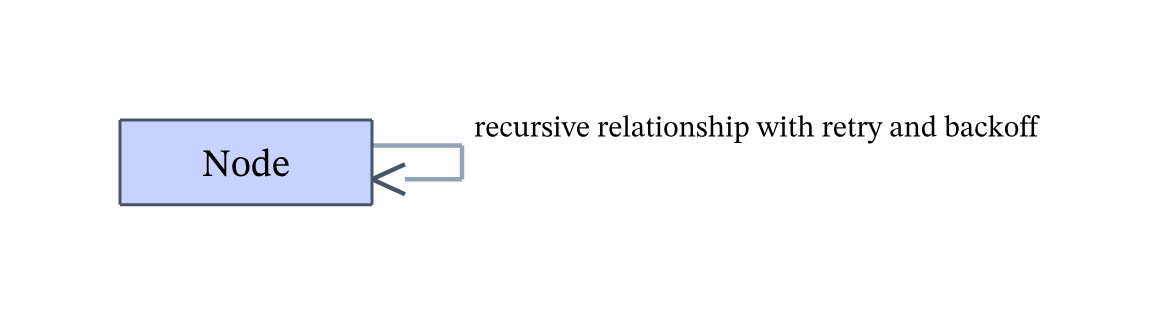
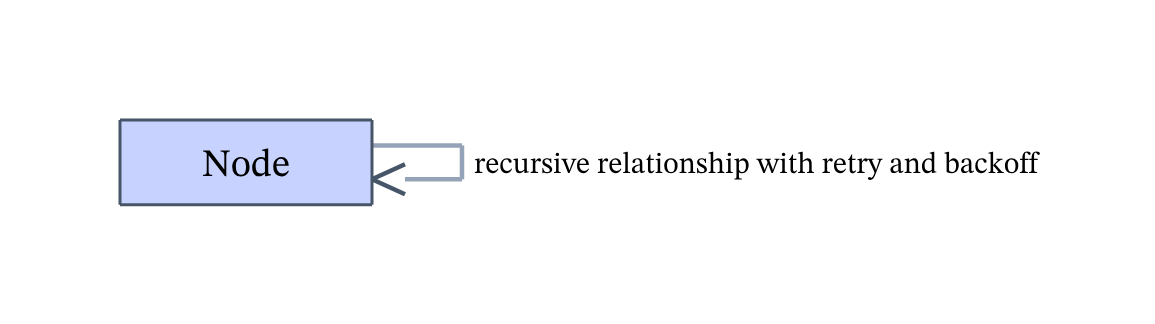
layout: self-loop labels ride their own lanes (plan 64cf1bae)
Charles-flagged from the live gallery: every self-loop label stacked into
one detached column at the outermost lane's top-right, so label<->loop
association was ambiguous (three lanes, one column), the ER two-label case
overlapped a right-neighbour edge's own midpoint label, and the marker-stack
case crowded the marker column.

Each label now RIDES ITS OWN LANE: x-staggered one lane-pitch past the
outermost vertical leg (distinct x-band per lane, never a shared column) and
spread symmetrically about the box/table CENTRE (a lone loop's label lands at
mid-height, clear of a neighbour's centre-band label; stacked loops fan one
line-slot apart). Every label sits past all legs, so it never crosses a lane
line or a border marker; the baseline is attach-independent so a short box
can't collapse two labels. The row cursor reserves the staircase width.

Applied identically to the duplicated ClassDiagramLayout / ErDiagramLayout
self-loop machinery. Five properties pinned in SelfLoopGeometryTest:
per-lane x-band association, pairwise label disjointness (the ER manages/uses
overlap, RED-first), label-vs-marker-footprint disjointness, label-vs-lane-
line/box disjointness with canvas growth; the sir217-era pins (lane
reservation, no collinear legs, marker pitch, neighbour avoidance) stay green.
Gallery regenerated for the five self-loop cases.

Changed region(s): [[0.4052, 0.463, 0.9039, 0.5556], [0.4052, 0.3395, 0.9039, 0.4321]]

diff --git a/src/test/java/com/sirentide/layout/SelfLoopGeometryTest.java b/src/test/java/com/sirentide/layout/SelfLoopGeometryTest.java
@@ -231,6 +231,152 @@ class SelfLoopGeometryTest {
         assertAllGeometryInside(laid);
     }
 
+    // -- 3c) each self-loop label RIDES ITS OWN LANE (Charles-flagged gallery review, plan 64cf1bae) --
+    // The five defect properties, each a receipt. On the OLD placement every loop label stacked into
+    // ONE detached column at the outermost leg's top-right: the ER two-label case OVERLAPPED, the
+    // marker-stack case collided with the marker column, and 3-nested-lane association was ambiguous.
+
+    /// PROPERTY 1 — per-lane x-band association: labels no longer share a column. Each loop label is
+    /// x-staggered one lane-pitch past the OUTERMOST vertical leg, so the labels' x-bands are STRICTLY
+    /// increasing by lane and every one starts past every leg. On the old code all three shared one
+    /// minX (the single outermost-lane column) → this fails RED there.
+    @Test
+    void eachSelfLoopLabelRidesItsOwnLaneXBandNotAColumn() {
+        LaidOut laid = ClassDiagramLayout.layout((ClassDiagram) DslParser.parse(
+            "classDiagram\n  class A\n  A --> A : first\n  A --> A : second\n  A --> A : third\n"));
+        List<Group> loops = edgeGroups(laid);   // group i == lane i (relations emit in order)
+        assertEquals(3, loops.size(), "three self-relations → three edge groups");
+        double outermostLeg = loops.stream()
+            .mapToDouble(g -> verticalLegX(g, EDGE)).max().orElseThrow();
+        double prevMinX = Double.NEGATIVE_INFINITY;
+        for (int k = 0; k < loops.size(); k++) {
+            double[] b = labelBbox(loops.get(k));   // positive control: throws if no glyphs
+            assertTrue(b[0] > outermostLeg + 1e-6,
+                "lane " + k + " label starts past the outermost leg (minX=" + b[0]
+                    + " > " + outermostLeg + ")");
+            assertTrue(b[0] > prevMinX + 1.0,
+                "lane " + k + " label rides its OWN x-band, not a shared column: minX " + b[0]
+                    + " must strictly exceed lane " + (k - 1) + "'s " + prevMinX);
+            prevMinX = b[0];
+        }
+        assertAllGeometryInside(laid);
+    }
+
+    /// PROPERTY 2 — pairwise label disjointness, the ER manages/uses RED: a self-loop label and a
+    /// right-NEIGHBOUR edge's own midpoint label used to physically overlap at the top-right. Centring
+    /// the loop label on the table's vertical middle drops it clear below the neighbour's centre-band
+    /// label. Both labels render (glyph boxes exist) — the disjointness is the load-bearing half.
+    @Test
+    void erSelfLoopLabelDoesNotCollideWithANeighborEdgeLabel() {
+        LaidOut laid = ErDiagramLayout.layout((ErDiagram) DslParser.parse(
+            "erDiagram\n  EMPLOYEE ||--o{ EMPLOYEE : manages\n  EMPLOYEE ||--|| DESK : uses\n"));
+        List<Group> edges = edgeGroups(laid);   // group 0 = self-loop (manages), 1 = neighbour (uses)
+        assertEquals(2, edges.size(), "two relationships → two edge groups");
+        double[] manages = labelBbox(edges.get(0));
+        double[] uses = labelBbox(edges.get(1));
+        assertTrue(footprintsDisjoint(manages, uses),
+            "the self-loop label and the neighbour edge label overlap: "
+                + java.util.Arrays.toString(manages) + " vs " + java.util.Arrays.toString(uses));
+        assertAllGeometryInside(laid);
+    }
+
+    /// PROPERTY 3 — labels disjoint from every MARKER footprint. The marker-stack case (diamond + two
+    /// triangles stacked on A's border) with three labels: each label's glyph box clears every marker
+    /// footprint (marker lines + filled diamond paths), because the labels ride lanes OUT past the
+    /// markers (which cap at x1 + markerLength ≤ x1 + SELF_LOOP_OUT).
+    @Test
+    void selfLoopLabelsNeverTouchAMarkerFootprint() {
+        LaidOut laid = ClassDiagramLayout.layout((ClassDiagram) DslParser.parse(
+            "classDiagram\n  class A\n  A <|-- A : inherits\n  A <|-- A : also\n  A *-- A : owns\n"));
+        List<Group> loops = edgeGroups(laid);
+        assertEquals(3, loops.size(), "three self-relations → three edge groups");
+        List<double[]> markers = new ArrayList<>();
+        for (Group g : loops) {
+            double[] mf = markerFootprint(g, MK);   // positive control: each marker rendered
+            assertTrue(mf != null, "each loop rendered its marker footprint");
+            markers.add(mf);
+        }
+        for (int k = 0; k < loops.size(); k++) {
+            double[] lab = labelBbox(loops.get(k));
+            for (int m = 0; m < markers.size(); m++) {
+                assertTrue(footprintsDisjoint(lab, markers.get(m)),
+                    "lane " + k + " label overlaps marker " + m + ": "
+                        + java.util.Arrays.toString(lab) + " vs "
+                        + java.util.Arrays.toString(markers.get(m)));
+            }
+        }
+        assertAllGeometryInside(laid);
+    }
+
+    /// PROPERTY 4 — labels disjoint from every LANE LINE and every BOX, with canvas GROWTH. A labeled
+    /// multi-lane loop WITH a right neighbour: every label glyph sits past all legs (min label x >
+    /// every lane-line x — legs all live at x ≤ the outermost leg), no glyph lands inside the loop's
+    /// own box or the neighbour box, and every coordinate stays inside the grown viewBox.
+    @Test
+    void selfLoopLabelsClearLaneLinesAndEveryBoxWithinTheGrownCanvas() {
+        LaidOut laid = ClassDiagramLayout.layout((ClassDiagram) DslParser.parse(
+            "classDiagram\n  class A\n  class B\n  A --> A : alpha\n  A --> A : beta\n  A --> B\n"));
+        List<Group> loops = edgeGroups(laid);
+        List<Rect> boxes = boxRects(laid, SirentideRole.CLASS);
+        assertEquals(2, boxes.size(), "both class boxes placed");
+        List<double[]> labelPts = new ArrayList<>();
+        for (Group g : loops) {
+            g.members().stream().filter(s -> s instanceof GlyphRun)
+                .forEach(s -> pathPoints(((GlyphRun) s).pathD(), labelPts));
+        }
+        assertFalse(labelPts.isEmpty(), "loop labels rendered glyphs");   // positive control
+        // No label glyph falls inside ANY box (own node or the neighbour).
+        for (double[] p : labelPts) {
+            for (Rect b : boxes) {
+                assertFalse(inside(b, p[0], p[1]),
+                    "a loop label glyph at " + p[0] + "," + p[1] + " falls inside a box at x="
+                        + b.x() + ".." + (b.x() + b.width()));
+            }
+        }
+        // Every label glyph sits strictly past EVERY self-loop LANE line. A rectilinear loop's lane
+        // is bounded on the right by its VERTICAL leg (x1 == x2), and every horizontal leg ends at
+        // x ≤ that vertical leg — so the outermost vertical leg is the rightmost lane coordinate. (The
+        // A→B neighbour edge is a straight, non-vertical line and carries no lane leg, so it is
+        // correctly excluded.) Labels stagger beyond it, so none can cross or sit on a loop leg.
+        double maxLaneX = Double.NEGATIVE_INFINITY;
+        for (Group g : loops) {
+            for (Shape s : g.members()) {
+                if (s instanceof Line l && EDGE.equals(l.stroke()) && Math.abs(l.x1() - l.x2()) < 1e-6) {
+                    maxLaneX = Math.max(maxLaneX, l.x1());
+                }
+            }
+        }
+        double minLabelX = labelPts.stream().mapToDouble(p -> p[0]).min().orElseThrow();
+        assertTrue(minLabelX > maxLaneX + 1e-6,
+            "every loop label clears every self-loop lane leg: min label x " + minLabelX
+                + " must exceed the outermost vertical leg x " + maxLaneX);
+        assertAllGeometryInside(laid);   // the canvas grew to hold the offset staircase
+    }
+
+    /// The bounding box {minX, minY, maxX, maxY} of a loop group's LABEL glyphs (a positive control in
+    /// itself — throws if the group rendered no glyphs).
+    private static double[] labelBbox(Group g) {
+        List<double[]> pts = new ArrayList<>();
+        g.members().stream().filter(s -> s instanceof GlyphRun)
+            .forEach(s -> pathPoints(((GlyphRun) s).pathD(), pts));
+        assertFalse(pts.isEmpty(), "the loop group rendered label glyphs");
+        double minX = Double.POSITIVE_INFINITY, minY = Double.POSITIVE_INFINITY;
+        double maxX = Double.NEGATIVE_INFINITY, maxY = Double.NEGATIVE_INFINITY;
+        for (double[] p : pts) {
+            minX = Math.min(minX, p[0]);
+            minY = Math.min(minY, p[1]);
+            maxX = Math.max(maxX, p[0]);
+            maxY = Math.max(maxY, p[1]);
+        }
+        return new double[] {minX, minY, maxX, maxY};
+    }
+
+    /// Two bboxes are DISJOINT when they share no interior (a shared edge at the touch tolerance is not
+    /// an overlap) — the negation of {@link #footprintsOverlap}.
+    private static boolean footprintsDisjoint(double[] a, double[] b) {
+        return !footprintsOverlap(a, b, 1e-6);
+    }
+
     /// Rejects any POSITIVE-LENGTH collinear intersection between edge-coloured legs of DIFFERENT
     /// groups (axis-aligned segments — the only leg shapes a rectilinear loop emits). Two legs on
     /// the same horizontal/vertical line (within 1px — legs are 1.5px-wide strokes) must not share

diff --git a/src/main/java/com/sirentide/layout/ClassDiagramLayout.java b/src/main/java/com/sirentide/layout/ClassDiagramLayout.java
@@ -337,7 +337,8 @@ public final class ClassDiagramLayout {
                 asc = FONT.ascent(EDGE_LABEL_SIZE);
                 desc = FONT.descent(EDGE_LABEL_SIZE);
             }
-            double baseline = Math.max(asc + 2, loopLabelBaseline(py[li], boxH[li], selfLane[e]));
+            double baseline = Math.max(asc + 2,
+                loopLabelBaseline(py[li], boxH[li], selfLane[e], selfLoops[li]));
             canvasH = Math.max(canvasH, baseline + desc + 2);
         }
 
@@ -654,15 +655,17 @@ public final class ClassDiagramLayout {
         emitEdgeLine(shapes, out, ay, out, by, dashed);
         emitEdgeLine(shapes, out, by, markTop ? x1 : x1 + markLen, by, dashed);
         shapes.addAll(mk);
-        // Optional `: label` — beside the node's OUTERMOST lane leg (never crossing an outer lane's
-        // vertical leg: every leg ends at x ≤ that leg, and the label starts past it), lane-STACKED
-        // upward from just above the lane-0 exit leg via {@link #loopLabelBaseline}. Above-the-legs
-        // keeps the label out of the BOX-CENTER band, where a straight edge to a right neighbor (and
-        // that edge's own midpoint label) lives — at center height a loop label reads struck-through
-        // by the crossing edge and runs into the neighbor edge's label (caught by eye on the BrewShot
-        // capture). Attach-independent, so a short box clamping the attach nudges together can never
-        // collapse stacked labels. The canvas clamps are belts: layout already reserved the width and
-        // grew the height with the same baseline formula.
+        // Optional `: label` — each loop's label RIDES ITS OWN LANE (Charles-flagged gallery review):
+        // x-STAGGERED one lane-pitch per lane past the OUTERMOST vertical leg, so no two lanes share a
+        // detached column and every label's x-band echoes the depth of its own leg. Vertically the set
+        // SPREADS symmetrically about the box CENTRE (the middle of the nested runs) via
+        // {@link #loopLabelBaseline}: a lone loop's label lands at mid-height — clear of a right-
+        // neighbour edge's own centre-band midpoint label (the ER manages/uses overlap) — while stacked
+        // loops fan one line-slot apart. Every label sits at x ≥ the outermost leg, so it never crosses
+        // a lane line or a border marker (markers cap at x1 + markerLength ≤ x1 + SELF_LOOP_OUT). The
+        // baseline is attach-INDEPENDENT (keyed off the box rect, not the clamped attach nudges) so a
+        // short box can never collapse two labels onto the same y. The canvas clamps are belts: layout
+        // reserved the staircase width and grew the height with the same baseline formula.
         if (r.label() != null && !r.label().isBlank()) {
             String lbl = FONT.ellipsize(r.label(), MAX_LABEL_W, EDGE_LABEL_SIZE);
             double w;
@@ -675,19 +678,24 @@ public final class ClassDiagramLayout {
                 w = FONT.runWidth(lbl, EDGE_LABEL_SIZE);
                 asc = FONT.ascent(EDGE_LABEL_SIZE);
             }
-            double labelX = x1 + SELF_LOOP_OUT + (laneCount - 1) * SELF_LOOP_LANE + SELF_LOOP_LABEL_GAP;
+            double labelX = x1 + SELF_LOOP_OUT + (laneCount - 1) * SELF_LOOP_LANE
+                + SELF_LOOP_LABEL_GAP + lane * SELF_LOOP_LANE;
             double originX = Math.max(2, Math.min(labelX, canvasW - 2 - w));
-            double baseline = Math.max(asc + 2, loopLabelBaseline(box.y(), box.h(), lane));
+            double baseline = Math.max(asc + 2, loopLabelBaseline(box.y(), box.h(), lane, laneCount));
             emitLine(shapes, lbl, originX, baseline, EDGE_LABEL_SIZE, false, canvasW, textColor, math);
         }
     }
 
-    /// Lane k's label BASELINE: just above the lane-0 EXIT leg (0.3·h), one line-slot further up per
-    /// lane. Above-the-legs keeps every label clear of the box-center band (a crossing edge to a
-    /// right neighbor + its midpoint label live there), and the formula is deliberately independent
-    /// of the attach-point CLAMPS so stacked labels stay ≥ one line apart on ANY box height.
-    private static double loopLabelBaseline(double boxY, double boxH, int lane) {
-        return boxY + boxH * 0.3 - 3 - lane * (EDGE_LABEL_SIZE + 2);
+    /// Lane k's label BASELINE: the whole set of a box's self-loop labels rides a stack CENTRED on the
+    /// box's vertical middle (the centre of the symmetric nested runs), one line-slot ({@code
+    /// EDGE_LABEL_SIZE + 2}) per lane. A single loop (laneCount 1) therefore lands at mid-height —
+    /// below a right-neighbour edge's own centre-band midpoint label, not stacked into it — and stacked
+    /// loops stay ≥ one line apart. Deliberately independent of the attach-point CLAMPS so a SHORT box
+    /// clamping the attach nudges together can never collapse two labels onto the same y.
+    private static double loopLabelBaseline(double boxY, double boxH, int lane, int laneCount) {
+        double pitch = EDGE_LABEL_SIZE + 2;
+        double centre = boxY + boxH * 0.5 + EDGE_LABEL_SIZE * 0.35;   // text-centre on the box middle
+        return centre + (lane - (laneCount - 1) / 2.0) * pitch;
     }
 
     /// Lane k's EXIT attach y (the top attach): 0.3·h nudged UP one {@link #SELF_LOOP_ATTACH_STEP} per
@@ -705,14 +713,15 @@ public final class ClassDiagramLayout {
     }
 
     /// Horizontal extent a node's self-loop lane adds past its right border: the outermost vertical
-    /// leg plus (when any of its loops is labeled) the label gap + the widest label. Zero without
-    /// self-loops. The row cursor reserves exactly this, and emitSelfLoop stays within it.
+    /// leg plus (when any of its loops is labeled) the label gap + the per-lane label STAIRCASE offset
+    /// + the widest label. Zero without self-loops. The row cursor reserves exactly this, and
+    /// emitSelfLoop stays within it (the widest label rides at most the outermost lane's stagger).
     private static double selfLaneExtent(int loops, double labelW) {
         if (loops == 0) {
             return 0;
         }
         return SELF_LOOP_OUT + (loops - 1) * SELF_LOOP_LANE
-            + (labelW > 0 ? SELF_LOOP_LABEL_GAP + labelW : 0);
+            + (labelW > 0 ? SELF_LOOP_LABEL_GAP + (loops - 1) * SELF_LOOP_LANE + labelW : 0);
     }
 
     /// Emits the edge core from `(x1,y1)` to `(x2,y2)`: a single straight run when the route is direct,

diff --git a/src/main/java/com/sirentide/layout/ErDiagramLayout.java b/src/main/java/com/sirentide/layout/ErDiagramLayout.java
@@ -335,7 +335,8 @@ public final class ErDiagramLayout {
                 asc = FONT.ascent(EDGE_LABEL_SIZE);
                 desc = FONT.descent(EDGE_LABEL_SIZE);
             }
-            double baseline = Math.max(asc + 2, loopLabelBaseline(py[li], boxH[li], selfLane[e]));
+            double baseline = Math.max(asc + 2,
+                loopLabelBaseline(py[li], boxH[li], selfLane[e], selfLoops[li]));
             canvasH = Math.max(canvasH, baseline + desc + 2);
         }
 
@@ -633,15 +634,16 @@ public final class ErDiagramLayout {
         // Both cardinality combos, each at its own border attach, pointing OUTWARD (+x, away from table).
         shapes.addAll(cardinalityMarker(r.leftCard(), x1, ay, 1, 0, MARKER));
         shapes.addAll(cardinalityMarker(r.rightCard(), x1, by, 1, 0, MARKER));
-        // Optional `: label` — beside the table's OUTERMOST lane leg (never crossing an outer lane's
-        // vertical leg: every leg ends at x ≤ that leg, and the label starts past it), lane-STACKED
-        // upward from just above the lane-0 exit leg via {@link #loopLabelBaseline}. Above-the-legs
-        // keeps the label out of the TABLE-CENTER band, where a straight edge to a right neighbor
-        // (and that edge's own midpoint label) lives — at center height a loop label runs into the
-        // neighbor edge's label (caught by eye on the BrewShot capture). Attach-independent, so a
-        // short table clamping the attach nudges together can never collapse stacked labels. The
-        // canvas clamps are belts: layout already reserved the width and grew the height with the
-        // same baseline formula.
+        // Optional `: label` — each loop's label RIDES ITS OWN LANE (Charles-flagged gallery review):
+        // x-STAGGERED one lane-pitch per lane past the OUTERMOST vertical leg, so no two lanes share a
+        // detached column and every label's x-band echoes the depth of its own leg. Vertically the set
+        // SPREADS symmetrically about the table CENTRE (the middle of the nested runs) via
+        // {@link #loopLabelBaseline}: a lone loop's label lands at mid-height — clear of a right-
+        // neighbour edge's own centre-band midpoint label (the manages/uses overlap) — while stacked
+        // loops fan one line-slot apart. Every label sits at x ≥ the outermost leg, so it never crosses
+        // a lane line or a cardinality marker. The baseline is attach-INDEPENDENT (keyed off the table
+        // rect, not the clamped attach nudges) so a short table can never collapse two labels onto the
+        // same y. The canvas clamps are belts: layout reserved the staircase width and grew the height.
         if (r.label() != null && !r.label().isBlank()) {
             String lbl = FONT.ellipsize(r.label(), MAX_LABEL_W, EDGE_LABEL_SIZE);
             double w;
@@ -654,19 +656,24 @@ public final class ErDiagramLayout {
                 w = FONT.runWidth(lbl, EDGE_LABEL_SIZE);
                 asc = FONT.ascent(EDGE_LABEL_SIZE);
             }
-            double labelX = x1 + SELF_LOOP_OUT + (laneCount - 1) * SELF_LOOP_LANE + SELF_LOOP_LABEL_GAP;
+            double labelX = x1 + SELF_LOOP_OUT + (laneCount - 1) * SELF_LOOP_LANE
+                + SELF_LOOP_LABEL_GAP + lane * SELF_LOOP_LANE;
             double originX = Math.max(2, Math.min(labelX, canvasW - 2 - w));
-            double baseline = Math.max(asc + 2, loopLabelBaseline(table.y(), table.h(), lane));
+            double baseline = Math.max(asc + 2, loopLabelBaseline(table.y(), table.h(), lane, laneCount));
             emitLine(shapes, lbl, originX, baseline, EDGE_LABEL_SIZE, false, textColor, math);
         }
     }
 
-    /// Lane k's label BASELINE: just above the lane-0 EXIT leg (0.3·h), one line-slot further up per
-    /// lane. Above-the-legs keeps every label clear of the table-center band (a crossing edge to a
-    /// right neighbor + its midpoint label live there), and the formula is deliberately independent
-    /// of the attach-point CLAMPS so stacked labels stay ≥ one line apart on ANY table height.
-    private static double loopLabelBaseline(double boxY, double boxH, int lane) {
-        return boxY + boxH * 0.3 - 3 - lane * (EDGE_LABEL_SIZE + 2);
+    /// Lane k's label BASELINE: the whole set of a table's self-loop labels rides a stack CENTRED on
+    /// the table's vertical middle (the centre of the symmetric nested runs), one line-slot ({@code
+    /// EDGE_LABEL_SIZE + 2}) per lane. A single loop (laneCount 1) therefore lands at mid-height —
+    /// below a right-neighbour edge's own centre-band midpoint label, not stacked into it — and stacked
+    /// loops stay ≥ one line apart. Deliberately independent of the attach-point CLAMPS so a SHORT
+    /// table clamping the attach nudges together can never collapse two labels onto the same y.
+    private static double loopLabelBaseline(double boxY, double boxH, int lane, int laneCount) {
+        double pitch = EDGE_LABEL_SIZE + 2;
+        double centre = boxY + boxH * 0.5 + EDGE_LABEL_SIZE * 0.35;   // text-centre on the table middle
+        return centre + (lane - (laneCount - 1) / 2.0) * pitch;
     }
 
     /// Lane k's EXIT attach y (the top attach): 0.3·h nudged UP one {@link #SELF_LOOP_ATTACH_STEP} per
@@ -691,7 +698,7 @@ public final class ErDiagramLayout {
             return 0;
         }
         return SELF_LOOP_OUT + (loops - 1) * SELF_LOOP_LANE
-            + (labelW > 0 ? SELF_LOOP_LABEL_GAP + labelW : 0);
+            + (labelW > 0 ? SELF_LOOP_LABEL_GAP + (loops - 1) * SELF_LOOP_LANE + labelW : 0);
     }
 
     /// Emits the edge core from `(x1,y1)` to `(x2,y2)`: a single straight run when the route is direct,
